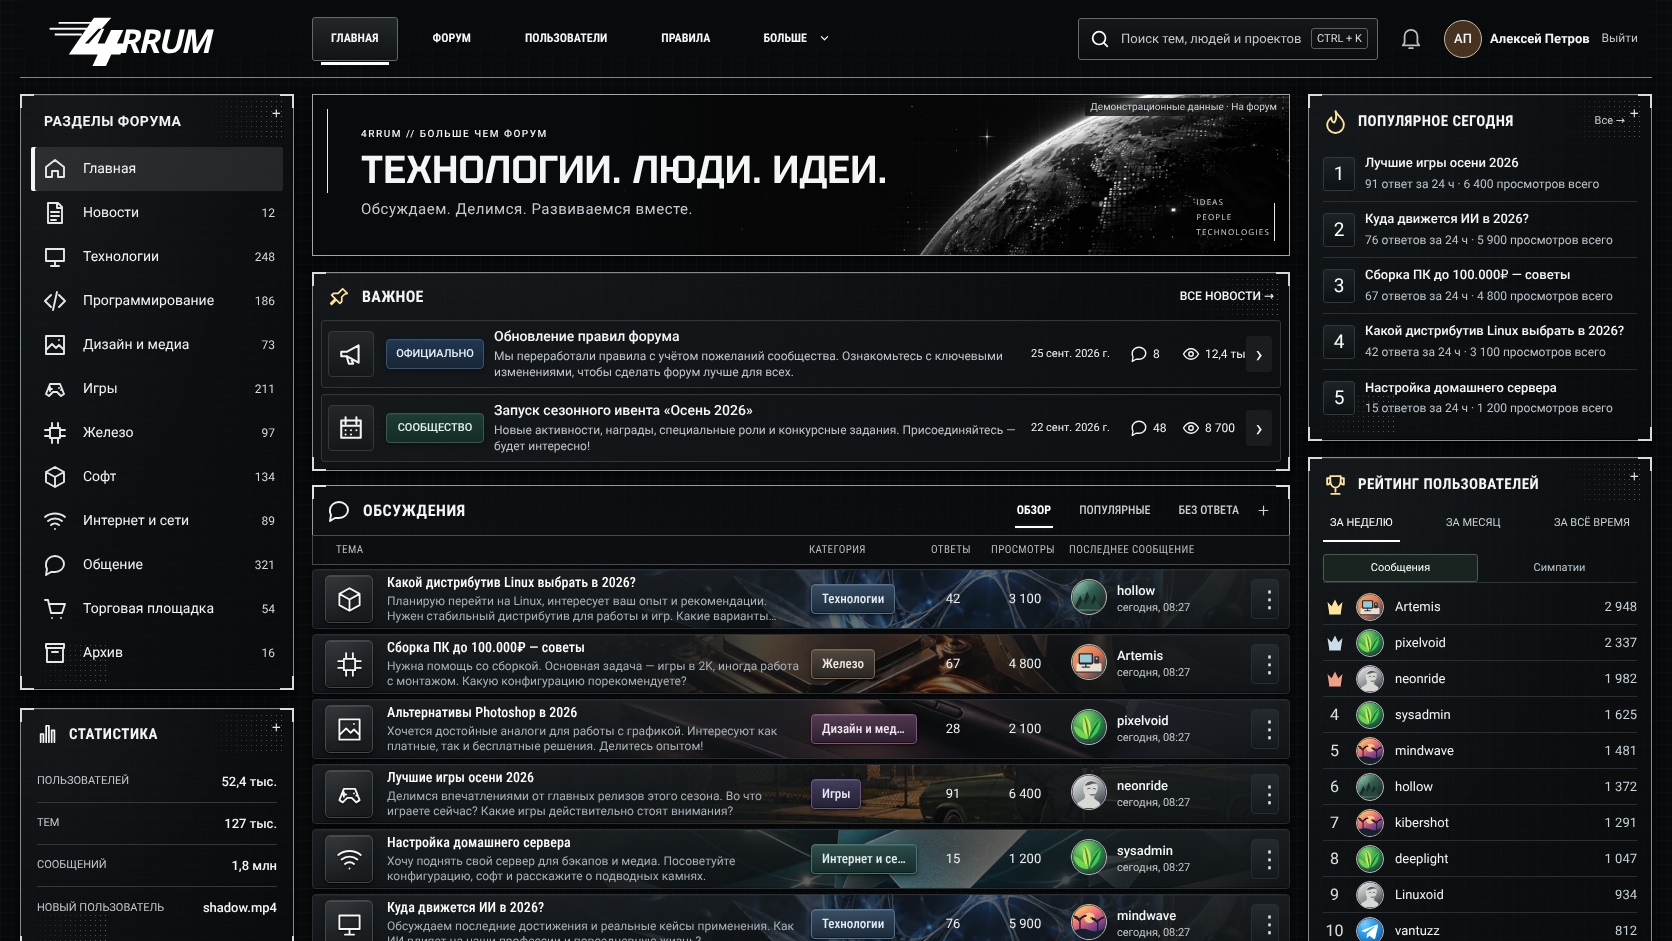
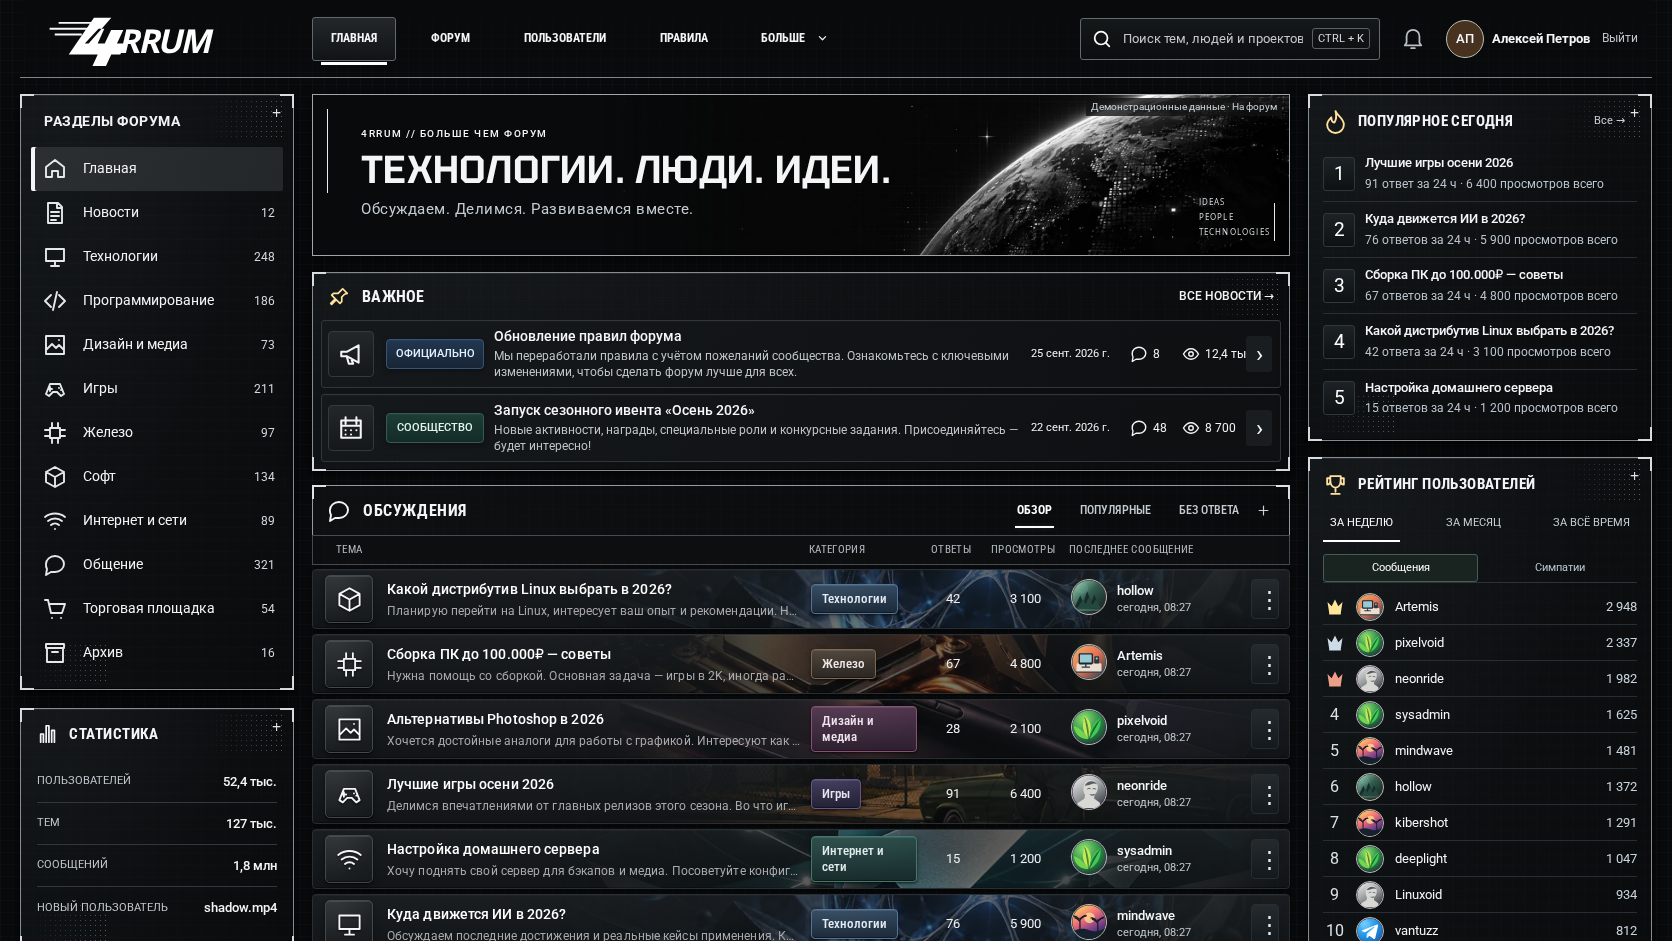
Make forum topics easier to read and show full category paths (#154)
* Improve topic readability and category hierarchy (v83)

* Fit long root category names inside topic badges

* Validate long category badges and refresh complete CI visual baselines

diff --git a/apps/web/app/home-alpha.css b/apps/web/app/home-alpha.css
@@ -1,4 +1,4 @@
-/* 4rrum v82. One homepage stylesheet; geometry follows the 1672×941 approved reference. */
+/* 4rrum v83. One homepage stylesheet; geometry follows the 1672×941 approved reference. */
 @font-face {font-family:ForumRoboto;src:url('/fonts/roboto-cyrillic-400.woff2') format('woff2');font-style:normal;font-weight:400;font-display:swap;unicode-range:U+0301,U+0400-045F,U+0490-0491,U+04B0-04B1,U+2116;}
 @font-face {font-family:ForumRoboto;src:url('/fonts/roboto-latin-400.woff2') format('woff2');font-style:normal;font-weight:400;font-display:swap;unicode-range:U+0000-024F,U+2000-206F,U+20AC,U+2122;}
 @font-face {font-family:ForumRoboto;src:url('/fonts/roboto-cyrillic-500.woff2') format('woff2');font-style:normal;font-weight:500;font-display:swap;unicode-range:U+0301,U+0400-045F,U+0490-0491,U+04B0-04B1,U+2116;}
@@ -60,7 +60,7 @@ body:has(.forum-home) .site-footer {display:none;}
 .forum-home .forum-category-toggle svg {width:12px;height:12px;margin:0 30px 0 auto;opacity:.8;}
 .forum-home .forum-category-toggle:focus-visible svg,.forum-home .forum-category-heading:hover .forum-category-toggle svg {opacity:1;}
 .forum-home .forum-category-toggle[aria-expanded=false] svg {transform:rotate(-90deg);}
-.forum-home .forum-category-children {margin:4px 4px 6px 25px;padding:0 0 0 8px;border-left:1px solid #535c60;}
+.forum-home .forum-category-children {margin:3px 4px 7px 23px;padding:0 0 0 8px;border-left:1px solid #ffffff1c;}
 .forum-home .forum-category-children .forum-category-heading {min-height:38px;padding-left:8px;}
 .forum-home .forum-category-children .forum-category-heading>a {font-size:12px;gap:8px;}
 .forum-home .forum-category-children svg {width:18px;height:18px;}
@@ -150,9 +150,9 @@ body:has(.forum-home) .site-footer {display:none;}
 .forum-home .forum-topic-actions {position:relative;}
 .forum-home .forum-more-trigger {display:grid;place-items:center;width:28px;height:38px;background:linear-gradient(#252b30,#181d21);border:1px solid #303940;border-radius:4px;color:#e2e9ed;font-size:24px;line-height:1;position:relative;}
 .forum-home .forum-saved-dot {position:absolute;right:3px;top:3px;width:5px;height:5px;border-radius:50%;background:#ade9d3;}
-.forum-home .forum-actions-popover {position:absolute;right:0;top:44px;min-width:230px;z-index:40;padding:5px;background:#1a2228;border:1px solid #72868f;border-radius:5px;box-shadow:0 10px 30px #0009;}
+.forum-home .forum-actions-popover {position:absolute;right:0;top:44px;width:220px;max-width:calc(100vw - 32px);z-index:40;padding:6px;background:linear-gradient(#1c2023,#121619);border:1px solid #51585d;border-radius:5px;box-shadow:inset 0 1px #ffffff0b,0 10px 30px #000a;}
 .forum-home .forum-actions-popover :is(button,a) {display:flex;align-items:center;gap:10px;text-align:left;width:100%;min-height:42px;padding:10px;font-size:13px;color:#f0f5f7;}
-.forum-home .forum-actions-popover :is(button,a):hover {background:#303f49;}
+.forum-home .forum-actions-popover :is(button,a):hover {background:#ffffff0a;}
 .forum-home .forum-actions-popover small {display:block;padding:10px;font-size:12px;color:#becbd2;}
 .forum-home .forum-action-notice {position:absolute;top:44px;right:0;width:260px;padding:12px;background:#1b2c33;border:1px solid #83a99f;border-radius:5px;display:flex;gap:10px;align-items:start;font-size:13px;z-index:40;}
 .forum-home .forum-action-notice button {min-width:24px;min-height:24px;}
@@ -291,7 +291,7 @@ body:has(.forum-home) .site-footer {display:none;}
 
 @media (min-width:1051px) {.forum-home .forum-app-category,.forum-home .forum-all-communities {display:none;}}
 
-/* v82: the approved illustrated forum table. Keep one explicit reference layer. */
+/* v83: the approved illustrated forum table. Keep one explicit reference layer. */
 body:has(.forum-home) {background-color:#080a0b!important;background-image:linear-gradient(#ffffff05 1px,transparent 1px),linear-gradient(90deg,#ffffff05 1px,transparent 1px);background-size:12px 12px;}
 .forum-home :is(.forum-primary a,.forum-header-more summary,.forum-feed-title,.forum-panel h2,.forum-categories h2,.forum-side-stats h2,.forum-important h2,.forum-topic h2,.forum-topic-columns,.forum-tabs button,.forum-topic-category-chip) {font-family:ForumCondensed,ForumRoboto,Arial,sans-serif;font-synthesis:none;}
 .forum-home {--f-text:#f4f5f6;--f-muted:#bbc1c7;--f-line:#72787e;--f-panel:#0c0e10;--f-accent:#e9edef;}
@@ -351,11 +351,11 @@ body:has(.forum-home) {background-color:#080a0b!important;background-image:linea
 .forum-home .forum-topic-category-icon svg {width:27px;height:27px;stroke-width:1.65;color:#f3f5f6;filter:drop-shadow(0 1px 1px #000a);}
 .forum-home .forum-topic.is-unread .forum-topic-category-icon {border-left-color:#8ac7bd;}
 .forum-home .forum-topic-content {background:none;padding:0;align-self:center;}
-.forum-home .forum-topic-title-line {display:flex;align-items:center;gap:5px;margin:0 0 3px;min-width:0;}
-.forum-home .forum-topic h2 {font-size:14px;line-height:17px;font-weight:500;letter-spacing:.05px;margin:0;color:#fff;display:block;min-width:0;overflow:hidden;white-space:nowrap;text-overflow:ellipsis;}
-.forum-home .forum-topic-excerpt {display:-webkit-box;-webkit-line-clamp:2;-webkit-box-orient:vertical;font-size:12px;line-height:15px;letter-spacing:0;color:#a6aeb6;font-weight:400;margin:0;overflow:hidden;}
+.forum-home .forum-topic-title-line {display:flex;align-items:center;gap:5px;margin:0 0 5px;min-width:0;}
+.forum-home .forum-topic h2 {font-family:ForumRoboto,Arial,sans-serif;font-size:14px;line-height:18px;font-weight:500;letter-spacing:.1px;margin:0;color:#fff;display:block;min-width:0;overflow:hidden;white-space:nowrap;text-overflow:ellipsis;}
+.forum-home .forum-topic-excerpt {display:block;white-space:nowrap;text-overflow:ellipsis;font-size:12px;line-height:16px;letter-spacing:.1px;color:#a9a9ad;font-weight:400;margin:0;overflow:hidden;}
 .forum-home .forum-topic-category-cell {display:flex;align-items:center;grid-column:3;grid-row:1;min-width:0;justify-self:stretch;}
-.forum-home .forum-topic-category-cell .forum-topic-category-chip {display:block;width:max-content;max-width:100%;min-height:28px;padding:6px 10px;margin:0;border-radius:4px;border:1px solid color-mix(in srgb,var(--chip-accent) 62%,#31363b);background:radial-gradient(ellipse at 30% 0,#ffffff09,transparent 75%),linear-gradient(180deg,color-mix(in srgb,var(--chip-accent) 34%,#182028),color-mix(in srgb,var(--chip-accent) 19%,#0b1016));box-shadow:inset 0 1px #ffffff1a,inset 0 -1px #0006,0 1px 2px #0008,0 3px 7px #0004;color:color-mix(in srgb,var(--chip-accent) 12%,#f5f7fa);font-size:13px;font-weight:500;line-height:1.2;white-space:nowrap;overflow:hidden;text-overflow:ellipsis;}
+.forum-home .forum-topic-category-cell .forum-topic-category-chip {display:block;width:max-content;max-width:100%;min-height:28px;padding:6px 10px;margin:0;border-radius:4px;border:1px solid color-mix(in srgb,var(--chip-accent) 62%,#31363b);background:radial-gradient(ellipse at 30% 0,#ffffff09,transparent 75%),linear-gradient(180deg,color-mix(in srgb,var(--chip-accent) 34%,#182028),color-mix(in srgb,var(--chip-accent) 19%,#0b1016));box-shadow:inset 0 1px #ffffff1a,inset 0 -1px #0006,0 1px 2px #0008,0 3px 7px #0004;color:color-mix(in srgb,var(--chip-accent) 12%,#f5f7fa);font-size:13px;font-weight:500;line-height:1.2;white-space:normal;overflow-wrap:anywhere;overflow:hidden;text-overflow:ellipsis;}
 .forum-home .forum-reply-count {grid-column:4;grid-row:1;}
 .forum-home .forum-view-count {grid-column:5;grid-row:1;}
 .forum-home .forum-topic-metric {font-size:13px;font-weight:400;color:#eef0f3;}
@@ -450,3 +450,17 @@ body:has(.forum-home) {background-color:#080a0b!important;background-image:linea
 }
 @media (prefers-reduced-data:reduce) {.forum-home .forum-topic::after {display:none;}}
 @media (forced-colors:active) {.forum-home .forum-topic::after {display:none;}.forum-home :is(.forum-topic,.forum-panel,.forum-important,.forum-categories,.forum-side-stats) {border-color:CanvasText;}}
+
+.forum-home .forum-topic-category-cell .forum-topic-category-chip.is-long {font-size:11px;line-height:12px;padding:4px 7px;}
+.forum-home .forum-topic-content:has(.forum-topic-path) .forum-topic-title-line {margin-bottom:4px;}
+/* Category hierarchy stays secondary; root-only topics retain the same row height. */
+.forum-home .forum-topic-path {font:400 10px/11px ForumRoboto,Arial,sans-serif;color:#a6a6aa;margin:0 0 1px;white-space:nowrap;overflow:hidden;text-overflow:ellipsis;}
+.forum-home .forum-topic-path a {color:inherit;}
+.forum-home .forum-topic-path a:hover {color:#f2f2f4;text-decoration:underline;text-underline-offset:2px;}
+.forum-home .forum-topic-path-separator {padding:0 5px;color:#85858a;}
+.forum-home .forum-action-login-copy {display:flex;flex-direction:column;gap:4px;}
+.forum-home .forum-action-login-copy small {padding:0;font-size:11px;line-height:1.4;color:#aaaab0;}
+@media(max-width:700px) {
+ .forum-home .forum-topic-path {font-size:10px;line-height:14px;}
+ .forum-home .forum-topic-excerpt {display:block;white-space:nowrap;line-height:16px;}
+}

diff --git a/apps/web/components/reference-home.tsx b/apps/web/components/reference-home.tsx
@@ -121,7 +121,16 @@ function Categories({ items: sourceItems, selected }: { items: Community[]; sele
 
 function Topic({ item, history, communities, demo, guest }: { item: PublicationCardData; history: ReadHistory | null; communities: Community[]; demo: boolean; guest: boolean }) {
  const category=communities.find(row=>row.slug===item.community.slug);
- const categoryLabel=category?.parent ? `${communityLabel(category.parent.name)} › ${communityLabel(item.community.name)}` : communityLabel(item.community.name);
+ const categoryTrail: {slug:string;name:string}[] = [{slug:item.community.slug,name:item.community.name}];
+ const visited = new Set([item.community.slug]);
+ let parent = category?.parent;
+ while (parent && !visited.has(parent.slug)) {
+  visited.add(parent.slug);
+  if (!/^(мастерская|медиа)$/i.test(parent.name.trim())) categoryTrail.unshift(parent);
+  parent = communities.find(row=>row.slug===parent!.slug)?.parent;
+ }
+ const primaryCategory = categoryTrail[0];
+ const categoryLabel = categoryTrail.map(row=>communityLabel(row.name)).join(' › ');
  const readState=topicReadState(history,item.id,item.lastComment?.createdAt);
  const important=Boolean(item.isOfficial && item.pinnedUntil && Date.parse(item.pinnedUntil)>Date.now());
  const lastAuthor=item.lastComment?.author ?? item.author;
@@ -137,6 +146,7 @@ function Topic({ item, history, communities, demo, guest }: { item: PublicationC
    <span className="forum-topic-category-icon"><Icon name={topicIcon(item.title,item.community.name)}/></span>
   </Link>
   <div className="forum-topic-content">
+   {categoryTrail.length > 1 && <nav className="forum-topic-path" aria-label="Путь категории" title={categoryLabel}>{categoryTrail.map((row,index)=><span key={row.slug}>{index > 0 && <span className="forum-topic-path-separator" aria-hidden="true">›</span>}<Link href={`/communities/${row.slug}`}>{communityLabel(row.name)}</Link></span>)}</nav>}
    <div className="forum-topic-title-line">
     <h2><Link className="forum-topic-main-link" href={`/p/${item.slug}`}>{item.title?.trim().replace(/FORRUM/g,'4rrum') || 'Запись без заголовка'}</Link></h2>
     {important && <span className="forum-topic-pinned" title="Закреплено форумом"><Icon name="paperclip"/></span>}
@@ -145,7 +155,7 @@ function Topic({ item, history, communities, demo, guest }: { item: PublicationC
    <p className="forum-topic-excerpt">{item.excerpt}</p>
   </div>
   <div className="forum-topic-category-cell" aria-label="Раздел темы">
-   <Link className="forum-topic-category-chip" href={`/communities/${item.community.slug}`} title={categoryLabel}>{communityLabel(item.community.name)}</Link>
+   <Link className={`forum-topic-category-chip${primaryCategory.name.length > 18 ? ' is-long' : ''}`} href={`/communities/${primaryCategory.slug}`} title={communityLabel(primaryCategory.name)}>{communityLabel(primaryCategory.name)}</Link>
   </div>
   <Link className="forum-topic-metric forum-reply-count" href={`/p/${item.slug}#discussion`} aria-label={`Ответы: ${item.commentCount}`} title="Ответы"><Icon name="comment"/><span>{formatCount(item.commentCount)}</span></Link>
   <span className="forum-topic-metric forum-view-count" title="Просмотры" aria-label={`Просмотры: ${item.viewCount ?? 0}`}><Icon name="eye"/><span>{formatCount(item.viewCount)}</span></span>
@@ -257,7 +267,7 @@ export function HomeDashboard({ initialData, demo = false }: { initialData: Home
  const visible = tab === 'new' && !community ? diverseTopics(matchingTopics, item => topicBackdrop(item.community.slug, item.community.name)) : matchingTopics;
  const news = initialData.announcements?.slice(0, 4) ?? [];
  const important = [...news.slice(0,2), ...topics.filter(item => item.isOfficial && item.pinnedUntil && Date.parse(item.pinnedUntil)>Date.now() && !news.some(row => row.id === item.id))].slice(0,2);
- return <div id="top" className={`forum-home ${viewer === 'guest' ? 'is-guest' : ''}`} data-home-reference="v49" data-home-revision="v82" onClickCapture={demo ? event=>{const link=(event.target as HTMLElement).closest('a');if(link && link.getAttribute('href')!=='/')event.preventDefault();} : undefined}>
+ return <div id="top" className={`forum-home ${viewer === 'guest' ? 'is-guest' : ''}`} data-home-reference="v49" data-home-revision="v83" onClickCapture={demo ? event=>{const link=(event.target as HTMLElement).closest('a');if(link && link.getAttribute('href')!=='/')event.preventDefault();} : undefined}>
   {!demo && <HomeWebVitals/>}
   <aside ref={sidebarRef} className={`forum-sidebar ${sidebar ? 'is-open' : ''}`} aria-label="Навигация форума">
    <button type="button" className="forum-sidebar-close" onClick={()=>setSidebar(false)} aria-label="Закрыть меню"><Icon name="close"/></button>

diff --git a/apps/web/components/home/topic-actions.tsx b/apps/web/components/home/topic-actions.tsx
@@ -24,7 +24,7 @@ export function TopicActions({item,demo,guest=false}:{item:PublicationCardData;d
  async function report(event:React.FormEvent){event.preventDefault();if(reason.trim().length<5)return;setBusy(true);setReportError('');try{await api(`/publications/${item.slug}/report`,{method:'POST',body:JSON.stringify({reason:reason.trim()})});dialog.current?.close();setReason('');setNotice('Жалоба отправлена модераторам');trigger.current?.focus();}catch(error){setReportError(error instanceof Error?error.message:'Не удалось отправить жалобу');}finally{setBusy(false);}}
  return <><time className="forum-posted" dateTime={item.createdAt} title={new Date(item.createdAt).toLocaleString('ru-RU',{timeZone:'UTC'})+' UTC'}>{postedAt(item.createdAt,now)}</time><div className="forum-topic-actions" ref={root} onBlur={event=>{if(!event.currentTarget.contains(event.relatedTarget as Node))setOpen(false);}}>
   <button ref={trigger} type="button" className={`forum-more-trigger${saved ? ' is-saved' : ''}`} title={saved ? 'Тема в избранном — открыть действия' : 'Действия с темой'} aria-label={`Действия с темой: ${item.title || 'Без заголовка'}`} aria-expanded={open} aria-controls={id} onClick={()=>{setNotice('');setOpen(!open);}}>{saved && <span className="forum-saved-dot" aria-label="В избранном"/>}⋮</button>
-  {open && <div className="forum-actions-popover" id={id}><button type="button" onClick={()=>void share()}><span aria-hidden="true">↗</span><span>Поделиться</span></button>{guest && !demo ? <a className="forum-action-login" href="/login">Войти, чтобы сохранить или пожаловаться</a> : <><button type="button" disabled={busy||demo} onClick={()=>void bookmark()}><span aria-hidden="true">☆</span><span>{saved?'Убрать из избранного':'В избранное'}</span></button><button type="button" className="forum-report-action" disabled={demo} onClick={()=>{setOpen(false);setReportError('');dialog.current?.showModal();}}><span aria-hidden="true">⚑</span><span>Пожаловаться</span></button></>}{demo && <small>Действия с аккаунтом доступны на форуме.</small>}</div>}
+  {open && <div className="forum-actions-popover" id={id}><button type="button" onClick={()=>void share()}><span aria-hidden="true">↗</span><span>Поделиться</span></button>{guest && !demo ? <a className="forum-action-login" href="/login"><span aria-hidden="true">☆</span><span className="forum-action-login-copy"><span>Войти в аккаунт</span><small>Избранное и жалобы</small></span></a> : <><button type="button" disabled={busy||demo} onClick={()=>void bookmark()}><span aria-hidden="true">☆</span><span>{saved?'Убрать из избранного':'В избранное'}</span></button><button type="button" className="forum-report-action" disabled={demo} onClick={()=>{setOpen(false);setReportError('');dialog.current?.showModal();}}><span aria-hidden="true">⚑</span><span>Пожаловаться</span></button></>}{demo && <small>Действия с аккаунтом доступны на форуме.</small>}</div>}
   {notice && <div className="forum-action-notice" role="status"><span>{notice}</span><button type="button" aria-label="Закрыть сообщение" onClick={()=>setNotice('')}>×</button></div>}
   <dialog ref={dialog} className="forum-report-dialog" aria-labelledby={`${id}-title`} onClose={()=>trigger.current?.focus()}><form onSubmit={report}><h2 id={`${id}-title`}>Пожаловаться на тему</h2><p>{item.title}</p><label>Что нарушено?<textarea autoFocus required minLength={5} maxLength={1000} value={reason} onChange={e=>setReason(e.target.value)} placeholder="Опишите причину, чтобы модератор мог разобраться"/></label>{reportError && <p role="alert">{reportError}</p>}<div><button type="button" onClick={()=>dialog.current?.close()}>Отмена</button><button type="submit" disabled={busy||reason.trim().length<5}>{busy?'Отправляем…':'Отправить жалобу'}</button></div></form></dialog>
  </div></>;
